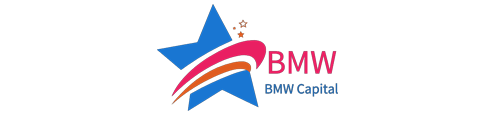
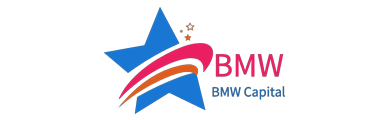
bmw image big

Changed region(s): [[0.2605, 0.0263, 0.7526, 0.9737], [0.2895, 0.8684, 0.3184, 0.8947]]

diff --git a/src/pages/Home/Partnerships.js b/src/pages/Home/Partnerships.js
@@ -34,6 +34,14 @@ const useStyles = makeStyles((theme) => ({
       padding: 15,
     },
   },
+  imageWrapperBMW: {
+    padding: 10,
+    height: '70px',
+    [theme.breakpoints.down('sm')]: {
+      height: '54px',
+      padding: 15,
+    },
+  },
   listingsWrapper: {
     maxWidth: 700,
   },
@@ -51,7 +59,7 @@ export default function Partnerships() {
             </a>
           </div>
           <div className="col-6 col-md-3">
-            <img src="images/bmwcapital.png" alt="logo" className={classes.imageWrapper} />
+            <img src="images/bmwcapital.png" alt="logo" className={classes.imageWrapperBMW} />
           </div>
 
           <div className="col-6 col-md-3">
